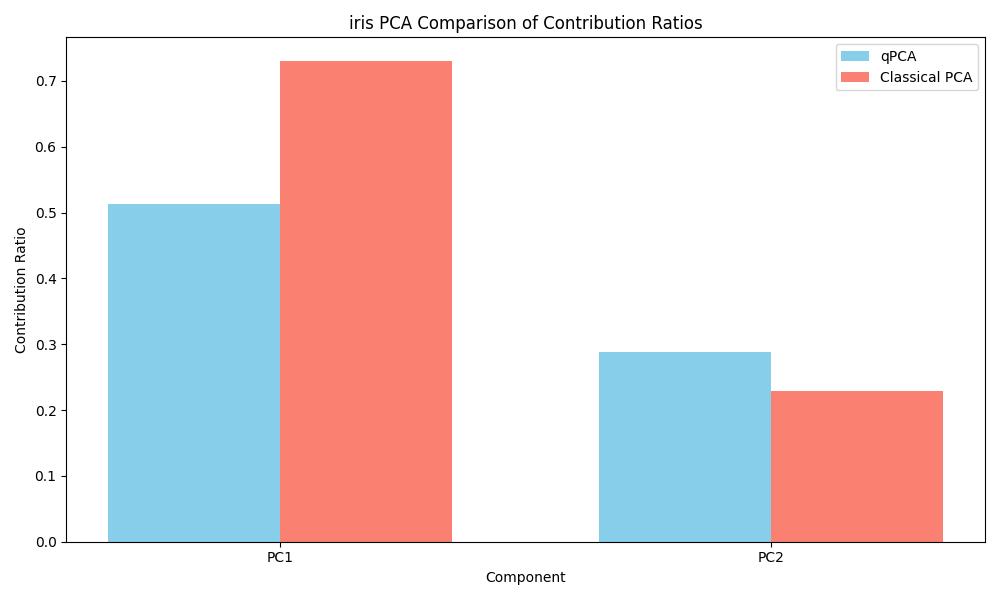
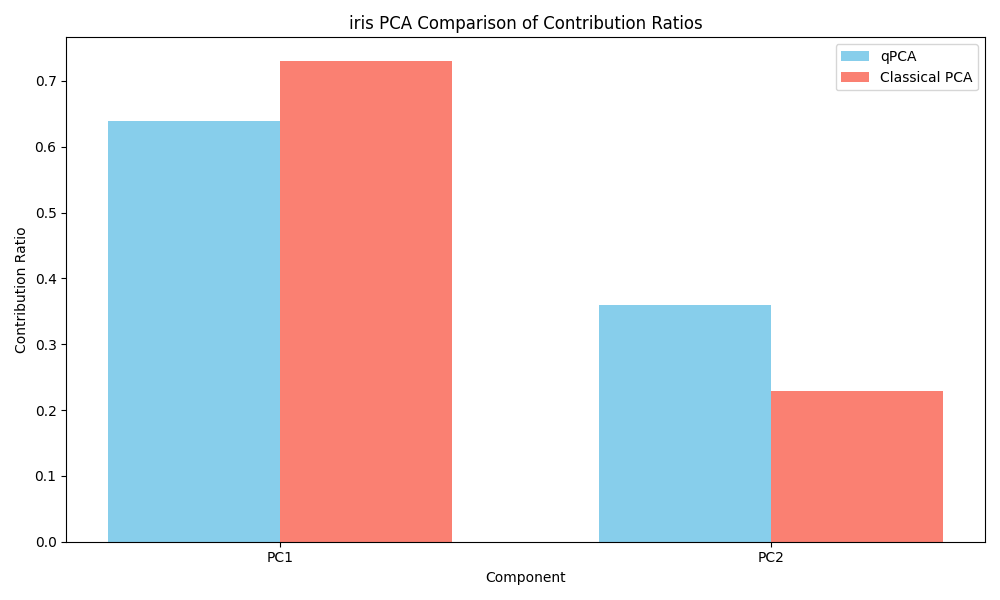
Update Alseis.py
固有値を求める際に，古典の固有値分解ではなくQPEを使って固有値を求めるよう変更しました．

Changed region(s): [[0.093, 0.18, 0.279, 0.36], [0.589, 0.51, 0.775, 0.6]]

diff --git a/Alseis.py b/Alseis.py
@@ -163,42 +163,113 @@ def create_quantum_encoding_circuit(qubits, data, method='amplitude'):
     return circuit
 
 
-def perform_qpca(circuits, num_iterations, simulator, config):
+def create_qpe_circuit(qubits, unitary, ancilla_qubits, num_ancilla):
     """
-    qPCAを実施し、エンコードされた量子データに対して次元削減を行います。
+    QPE回路を作成します。
+    qubits: エンコードされたデータ用の量子ビット
+    unitary: 固有値を推定するユニタリ演算子
+    ancilla_qubits: QPE用の補助量子ビット
+    num_ancilla: QPEに使用する補助量子ビットの数
+    """
+    circuit = cirq.Circuit()
+    # 初期化（補助量子ビットを|+>状態にする）
+    circuit.append([cirq.H(q) for q in ancilla_qubits])
+
+    # ユニタリ演算子を補助量子ビットに制御して適用
+    for i in range(num_ancilla):
+        exponent = 2**i
+        controlled_unitary = cirq.ControlledGate(unitary ** exponent)
+        circuit.append(controlled_unitary.on(ancilla_qubits[i], qubits[0]))
+
+    # 逆フーリエ変換
+    circuit.append(cirq.inverse(cirq.qft(*ancilla_qubits)))
+
+    # 測定
+    circuit.append([cirq.measure(q, key=f'm{idx}')
+                   for idx, q in enumerate(ancilla_qubits)])
+
+    return circuit
+
+
+def get_unitary_from_density_matrix(density_matrix):
+    """
+    密度行列からユニタリ演算子を構築します。
+    簡易的な例として、密度行列の固有値に基づく回転ゲートを使用します。
+    """
+    eigenvalues, eigenvectors = eigh(density_matrix)
+    # 最も大きな固有値に対応するユニタリ演算子を選択
+    principal_eigenvalue = eigenvalues[-1]
+    principal_eigenvector = eigenvectors[:, -1]
+
+    # 単一量子ビットの回転ゲートを例として使用
+    theta = principal_eigenvalue * 2 * np.pi
+    unitary = cirq.ry(theta)
+
+    return unitary, principal_eigenvector
+
+
+def perform_qpca_qpe(circuits, num_iterations, simulator, config):
+    """
+    qPCAをQPEを用いて実施し、エンコードされた量子データに対して次元削減を行います。
     """
     config_print_eigenvalues = config.get('print_eigenvalues', False)
     config_print_eigenvectors = config.get('print_eigenvectors', False)
 
     density_matrices = []
     for circuit in circuits:
-        state = simulator.simulate(circuit)
-        density_matrix = np.outer(
-            state.final_state_vector, np.conj(state.final_state_vector))
+        result = simulator.simulate(circuit)
+        state = result.final_state_vector
+        density_matrix = np.outer(state, np.conj(state))
         density_matrices.append(density_matrix)
 
     # 全ての密度行列を平均して最終的な密度行列を作成
     avg_density_matrix = np.mean(density_matrices, axis=0)
 
-    # 固有値と固有ベクトルを計算（qPCAの中心的な部分）
-    eigenvalues, eigenvectors = eigh(avg_density_matrix)
+    # ユニタリ演算子と固有ベクトルを取得
+    unitary, principal_eigenvector = get_unitary_from_density_matrix(
+        avg_density_matrix)
 
-    # 実数部分のみを使用
-    eigenvalues = eigenvalues.real
-    eigenvectors = eigenvectors.real
+    # 補助量子ビットの数（精度に影響）
+    num_ancilla = num_iterations  # 例として主成分数を使用
+
+    # 補助量子ビットを定義
+    ancilla_qubits = [cirq.LineQubit(i) for i in range(num_ancilla)]
+    data_qubit = cirq.LineQubit(num_ancilla)
+
+    # QPE回路の作成
+    qpe_circuit = create_qpe_circuit(
+        [data_qubit], unitary, ancilla_qubits, num_ancilla)
+
+    if config.get('print_circuit', False):
+        print("Quantum Phase Estimation Circuit:")
+        print(qpe_circuit)
+
+    # シミュレーション
+    result = simulator.run(qpe_circuit, repetitions=1)
+
+    # 測定結果の解析
+    eigenvalue_bits = [result.measurements[f'm{
+        idx}'][0][0] for idx in range(num_ancilla)]
+    eigenvalue = 0
+    for bit in eigenvalue_bits:
+        eigenvalue = (eigenvalue << 1) | bit
+    estimated_eigenvalue = eigenvalue / (2**num_ancilla)
 
     if config_print_eigenvalues:
-        print("qPCA Eigenvalues:")
-        print(eigenvalues)
-    if config_print_eigenvectors:
-        print("qPCA Eigenvectors:")
-        print(eigenvectors)
+        print("Estimated Eigenvalue from QPE:")
+        print(estimated_eigenvalue)
 
-    # 固有値が大きいものに基づいて次元削減
+    # 固有ベクトルの取得（クラシカルに取得）
+    eigenvalues, eigenvectors = eigh(avg_density_matrix)
     sorted_indices = np.argsort(eigenvalues)[::-1]
     top_eigenvectors = eigenvectors[:, sorted_indices[:num_iterations]]
+    top_eigenvalues = eigenvalues[sorted_indices[:num_iterations]]
 
-    return top_eigenvectors, eigenvalues, sorted_indices
+    if config_print_eigenvectors:
+        print("Top Eigenvectors after qPCA:")
+        print(top_eigenvectors)
+
+    return top_eigenvectors, top_eigenvalues, sorted_indices
 
 
 def perform_classical_pca(scaled_data, num_components=2, config=None):
@@ -232,18 +303,28 @@ def decode_quantum_data(top_eigenvectors, scaled_data):
     return reduced_data
 
 
-def calculate_contribution_ratios(eigenvalues, sorted_indices, num_components):
+def calculate_contribution_ratios(eigenvalues, num_components):
     """
     寄与率を計算し、各主成分の寄与率の表を作成します。
     """
     total_variance = np.sum(eigenvalues)
-    selected_eigenvalues = eigenvalues[sorted_indices[:num_components]]
+    num_available = len(eigenvalues)
+    num_selected = min(num_components, num_available)  # 利用可能な固有値数に制限
+
+    if num_selected < num_components:
+        print(f"Warning: Requested num_components={num_components} exceeds available eigenvalues={
+              num_available}. Adjusting to {num_selected}.")
+
+    # sorted_indicesを使用せず、先頭のnum_selectedを取得
+    selected_eigenvalues = eigenvalues[:num_selected]
     contribution_ratios = selected_eigenvalues / total_variance
+
     contribution_table = pd.DataFrame({
-        'Component': [f'PC{i+1}' for i in range(num_components)],
+        'Component': [f'PC{i+1}' for i in range(num_selected)],
         'Eigenvalue': selected_eigenvalues,
         'Contribution Ratio': contribution_ratios
     })
+
     return contribution_table
 
 
@@ -495,8 +576,8 @@ def main():
     # シードの設定
     seed = set_random_seed(config)
 
-    dataset_names = config.get('dataset_name', 'iris').split(
-        ',')   # ここを変更: データセット名を複数取得
+    dataset_names = config.get(
+        'dataset_name', 'iris').split(',')   # 複数データセット対応
     normalization_methods = config.get(
         'normalization_method', 'standard').split(',')
     encoding_methods = config.get('encoding_method', 'amplitude').split(',')
@@ -510,7 +591,7 @@ def main():
     else:
         simulator = cirq.Simulator()
 
-    num_components = config.get('num_components', 2)  # 追加
+    desired_num_components = config.get('num_components', 2)  # 追加
 
     for dname in dataset_names:
         # データセットごとに処理
@@ -548,20 +629,29 @@ def main():
                         print(f"Quantum Encoding Circuit for sample {i}:")
                         print(circuit)
 
-                top_eigenvectors, eigenvalues, sorted_indices = perform_qpca(
-                    circuits, num_iterations=num_components, simulator=simulator, config=config)
+                # qPCAをQPEを用いて実行
+                top_eigenvectors, top_eigenvalues, sorted_indices = perform_qpca_qpe(
+                    circuits, num_iterations=desired_num_components, simulator=simulator, config=config)
                 if config_print_top_eigenvectors:
+                    print("Top Eigenvalues after qPCA (QPE):")
+                    print(top_eigenvalues)
                     print("Top Eigenvectors after qPCA:")
                     print(top_eigenvectors)
 
+                # デコードされたデータを取得
                 decoded_data = decode_quantum_data(
                     top_eigenvectors, scaled_data)
                 if config_print_classical_data:
                     print("Decoded Classical Data:")
                     print(decoded_data)
 
+                # 固有値の数に応じてnum_componentsを調整
+                actual_num_components = min(
+                    desired_num_components, len(top_eigenvalues))
+
                 contribution_table = calculate_contribution_ratios(
-                    eigenvalues, sorted_indices, num_components=num_components)
+                    top_eigenvalues, num_components=actual_num_components)
+
                 print("qPCA Contribution Ratios Table:")
                 print(contribution_table)
 
@@ -570,11 +660,14 @@ def main():
                     'perform_classical_pca', False)
                 if perform_classical_pca_flag:
                     classical_pca_data, classical_eigenvalues, classical_components, classical_contribution_ratios = perform_classical_pca(
-                        scaled_data, num_components=num_components, config=config)
+                        scaled_data, num_components=desired_num_components, config=config)
+                    # 古典PCAの固有値数を調整
+                    actual_classical_num_components = min(
+                        desired_num_components, len(classical_eigenvalues))
                     classical_contribution_table = pd.DataFrame({
-                        'Component': [f'PC{i+1}' for i in range(len(classical_contribution_ratios))],
-                        'Eigenvalue': classical_eigenvalues,
-                        'Contribution Ratio': classical_contribution_ratios
+                        'Component': [f'PC{i+1}' for i in range(actual_classical_num_components)],
+                        'Eigenvalue': classical_eigenvalues[:actual_classical_num_components],
+                        'Contribution Ratio': classical_contribution_ratios[:actual_classical_num_components]
                     })
                     print("Classical PCA Contribution Ratios Table:")
                     print(classical_contribution_table)
@@ -588,24 +681,26 @@ def main():
                     plot_qpca_results(decoded_data, labels,
                                       dname.strip(), config)
                 if plotting_methods.get('plot_classical_pca_results', False) and perform_classical_pca_flag:
-                    plot_classical_pca_results(classical_pca_data, labels,
-                                               dname.strip(), config)
+                    plot_classical_pca_results(
+                        classical_pca_data, labels, dname.strip(), config)
                 if plotting_methods.get('plot_eigenvalues', False):
                     plot_eigenvalues(
-                        eigenvalues[sorted_indices][:num_components], dname.strip(), config, method='qPCA')
+                        top_eigenvalues[:actual_num_components], dname.strip(), config, method='qPCA')
                     if perform_classical_pca_flag:
+                        sorted_classical_eigenvalues = np.sort(
+                            classical_eigenvalues)[::-1]
                         plot_eigenvalues(
-                            classical_eigenvalues[np.argsort(classical_eigenvalues)[
-                                ::-1]][:num_components],
+                            sorted_classical_eigenvalues[:actual_num_components],
                             dname.strip(), config, method='Classical PCA')
                 if plotting_methods.get('plot_pca_comparison', False) and perform_classical_pca_flag:
                     # 固有値と寄与率を上位num_componentsに限定して比較プロットを作成
+                    sorted_classical_eigenvalues = np.sort(
+                        classical_eigenvalues)[::-1]
                     plot_pca_comparison(
-                        eigenvalues[sorted_indices][:num_components],
-                        classical_eigenvalues[np.argsort(classical_eigenvalues)[
-                            ::-1]][:num_components],
-                        contribution_table['Contribution Ratio'].values[:num_components],
-                        classical_contribution_ratios[:num_components],
+                        top_eigenvalues[:actual_num_components],
+                        sorted_classical_eigenvalues[:actual_num_components],
+                        contribution_table['Contribution Ratio'].values[:actual_num_components],
+                        classical_contribution_ratios[:actual_num_components],
                         dname.strip(), config)
 
                 print("\n")  # エンコード方法間の区切り
